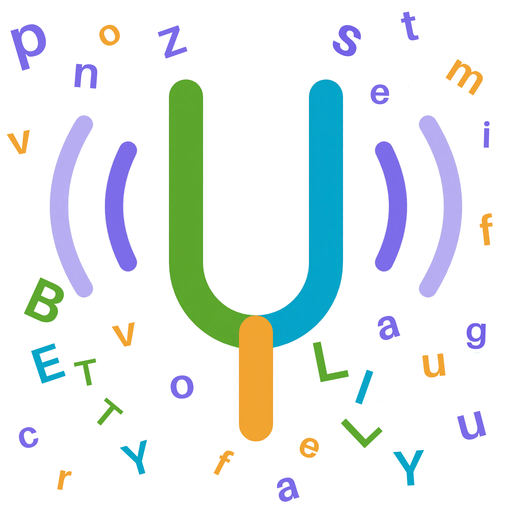
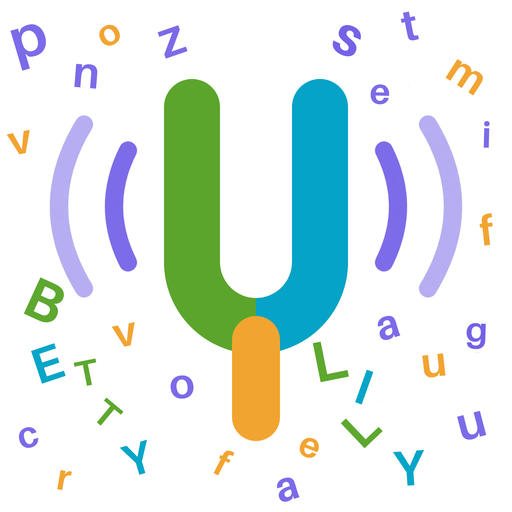
Ícono de AFINA: diapasón más grueso
El diapasón del ícono pasa a ser más grueso para que se reconozca mejor
a tamaño chico en la pantalla de inicio del celular. Versión del service
worker v3.

Claude-Session: https://claude.ai/code/session_01Pwpzx8BfAXaCXVTarz92mC

diff --git a/sw.js b/sw.js
@@ -1,6 +1,6 @@
 /* AFINA · guarda la app en el dispositivo para usarla sin conexión.
    Si cambia algún archivo, subir el número de VERSION para que se actualice. */
-const VERSION = 'afina-v2';
+const VERSION = 'afina-v3';
 const ARCHIVOS = [
  "./",
  "ayuda/abeja.mp3",
